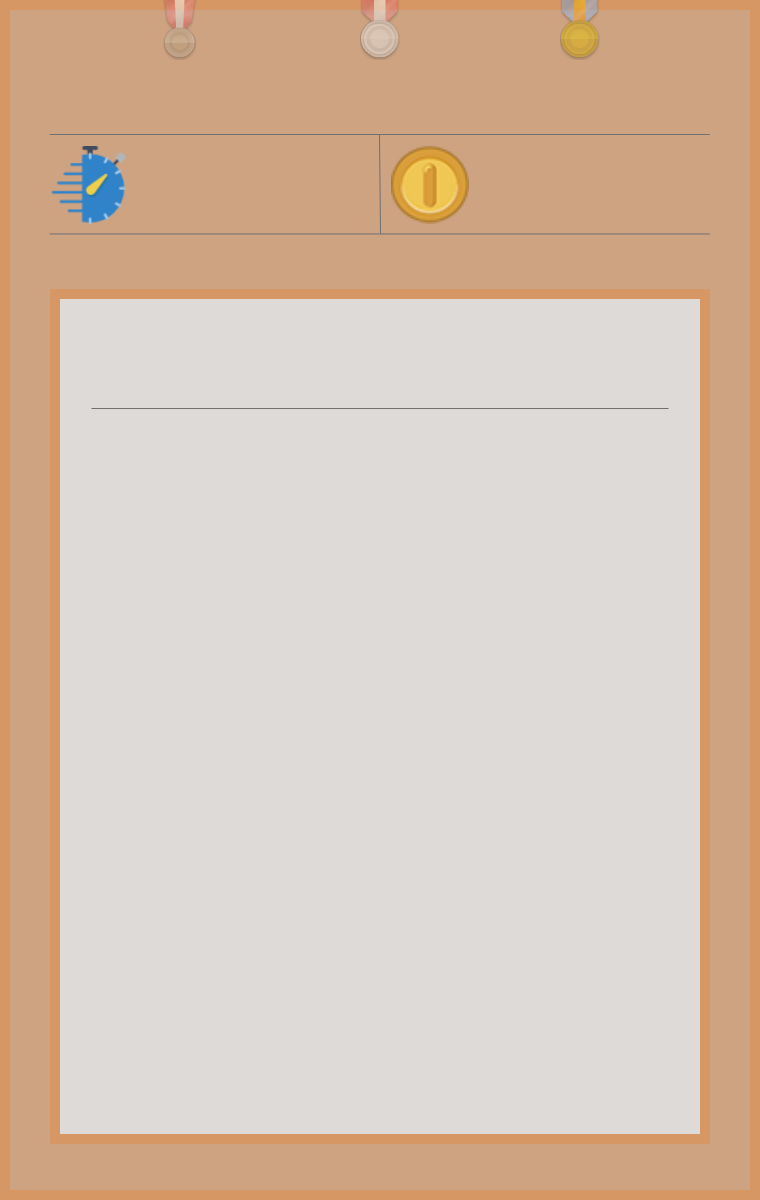
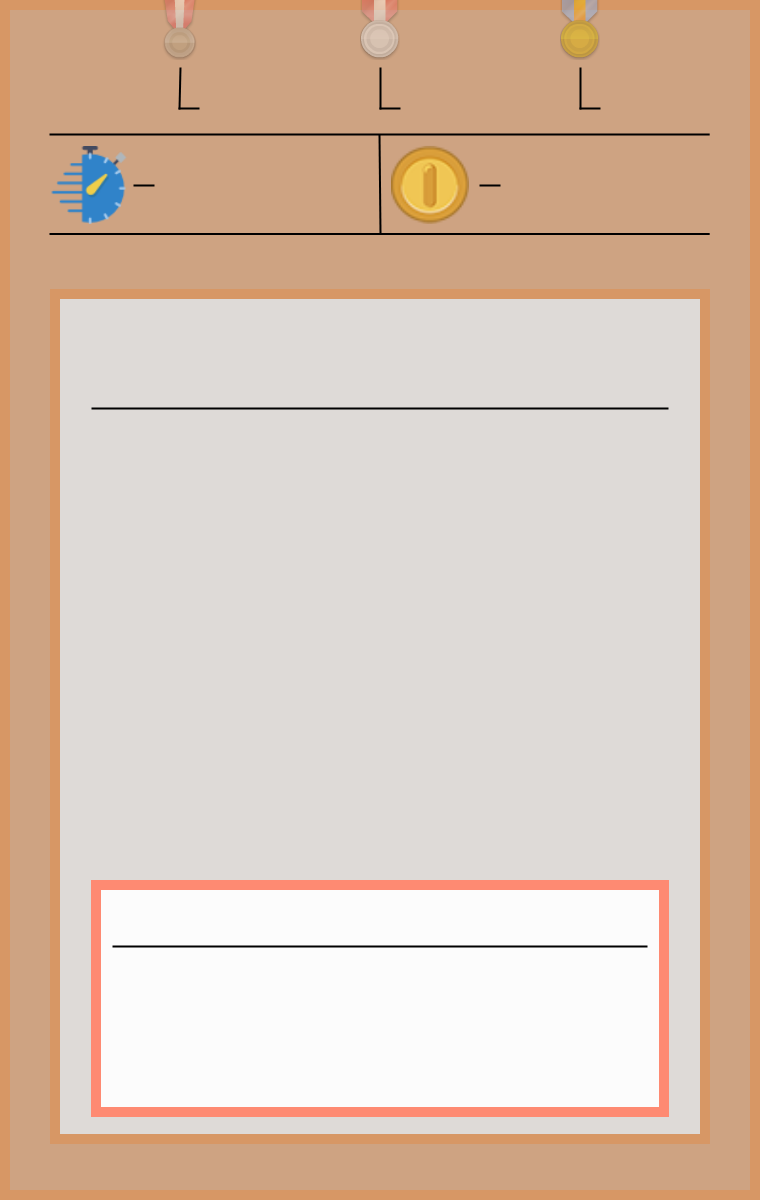
Continue work on LevelInfo

diff --git a/src/main/java/ivara/entities/LevelInfoEntity.java b/src/main/java/ivara/entities/LevelInfoEntity.java
@@ -1,12 +1,22 @@
 package ivara.entities;
 
 import core.components.SpriteComponent;
+import core.components.TextComponent;
 import core.entity.GameEntity;
 import core.struct.ResourceID;
 import core.struct.Sprite;
+import ivara.scenes.Level;
 import maths.Vector;
 
 public class LevelInfoEntity extends GameEntity {
+
+    public static final Vector MEDAL_LABEL_LOCATION = new Vector(0.6f, 1.4f);
+    public static final Vector BRONZE_TIME_LOCATION = new Vector(2.5f, 1.48f);
+    public static final Vector SILVER_TIME_LOCATION = new Vector(5f, 1.48f);
+    public static final Vector GOLD_TIME_LOCATION = new Vector(7.5f, 1.48f);
+    public static final int MEDAL_FONT_SIZE = 30;
+
+    Level currentLevel = null;
 
     public LevelInfoEntity(Vector transform) {
         super(transform);
@@ -15,5 +25,19 @@ public class LevelInfoEntity extends GameEntity {
         SpriteComponent sc = new SpriteComponent(this);
         sc.add(new Sprite(new ResourceID("level-info-none"), new Vector(0,0), null));
         addComponent(sc);
+    }
+
+    public void displayLevel(Level level) {
+        currentLevel = level;
+        TextComponent tc = new TextComponent(this);
+
+        tc.add(MEDAL_LABEL_LOCATION, "Medal Times:", MEDAL_FONT_SIZE/1.5f);
+        tc.add(BRONZE_TIME_LOCATION, String.valueOf(level.getBronzeTime()) + 's', MEDAL_FONT_SIZE);
+        tc.add(SILVER_TIME_LOCATION, String.valueOf(level.getSilverTime()) + 's', MEDAL_FONT_SIZE);
+        tc.add(GOLD_TIME_LOCATION, String.valueOf(level.getGoldTime()) + 's', MEDAL_FONT_SIZE);
+
+
+
+        addComponent(tc);
     }
 }

diff --git a/src/main/java/ivara/entities/LevelIconEntity.java b/src/main/java/ivara/entities/LevelIconEntity.java
@@ -59,7 +59,8 @@ public class LevelIconEntity extends GameEntity {
     }
 
     private void iconClicked() {
-        System.out.println("Icon clicked");
+        LevelInfoEntity levelInfoEntity = (LevelInfoEntity) getScene().getEntity(LevelInfoEntity.class);
+        levelInfoEntity.displayLevel(level);
     }
 
     private boolean isInIcon(Vector position) {
